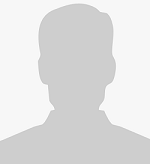
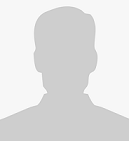
employee

diff --git a/TimeAttendanceSystem/Views/EmployeeView.xaml b/TimeAttendanceSystem/Views/EmployeeView.xaml
@@ -1,9 +1,11 @@
 <Page x:Class="TimeAttendanceSystem.Views.EmployeeView"
         xmlns="http://schemas.microsoft.com/winfx/2006/xaml/presentation"
         xmlns:x="http://schemas.microsoft.com/winfx/2006/xaml"
+        xmlns:toolkit="http://schemas.microsoft.com/wpf/2008/toolkit"
+        xmlns:d="http://schemas.microsoft.com/expression/blend/2008" xmlns:mc="http://schemas.openxmlformats.org/markup-compatibility/2006" xmlns:telerik="http://schemas.telerik.com/2008/xaml/presentation" 
         xmlns:local="clr-namespace:TimeAttendanceSystem.Views"
-      
-        Title="EmployeeView" Height="631.585" Width="738.125">
+        xmlns:validations="clr-namespace:TimeAttendanceSystem.Validation"
+        Title="EmployeeView" Height="631.585" Width="1000">
     <Page.Resources>
         <ControlTemplate x:Key="validationErrorTemplate">
             <DockPanel>
@@ -15,12 +17,125 @@
             </DockPanel>
         </ControlTemplate>
     </Page.Resources>
-    <Grid Margin="0,-24,0.4,-60.8">
-        
+    <Border BorderBrush="#FF25A0DA" BorderThickness="1" Margin="0,0,-152,0">
+        <StackPanel Background="White">
+            <!--Header-->
+            <StackPanel Background="#FF25A0DA" Height="35px">
+                <Label Foreground="White" FontSize="17">Employees</Label>
+            </StackPanel>
+
+            <StackPanel Orientation="Horizontal" Height="589">
+                <!--List View Panel-->
+                <StackPanel Margin="5,5,5,5">
+                    <telerik:RadGridView x:Name="radGridView" AutoGenerateColumns="False" 
+                        telerik:StyleManager.Theme="Windows8" HorizontalAlignment="Left" 
+                        ItemsSource="{Binding listOfDivs}" SelectedItem="{Binding selectedDiv}" 
+                        VerticalAlignment="Top" Grid.RowSpan="2" 
+                        CanUserFreezeColumns="False" MinWidth="387">
+                        <telerik:RadGridView.Columns>
+                            <telerik:GridViewDataColumn Header="DivisionName" DataMemberBinding="{Binding DivisionName}" />
+                        </telerik:RadGridView.Columns>
+                    </telerik:RadGridView>
+
+                </StackPanel>
+                <Border BorderBrush="LightGray" BorderThickness="1" Margin="5,5,5,5" Width="400">
+                    <StackPanel Margin="5,0,5,3" Background="White">
+                        <!--Buttons Panel-->
+                        <StackPanel Orientation="Horizontal" Margin="300,5,5,5">
+                            <Button telerik:StyleManager.Theme="Windows8" Width="18" BorderThickness="0" Command="{Binding AddCommand}" CommandParameter="{Binding}" ToolTip="Add">
+                                <Image  Stretch="Uniform" Source="/TimeAttendanceSystem;component/Images/add.png">
+                                </Image>
+                            </Button>
+                            <Button telerik:StyleManager.Theme="Windows8" Margin="10,0,0,0" Width="18" BorderBrush="#FFFFFBFB" BorderThickness="0" Command="{Binding EditCommand}" CommandParameter="{Binding}" ToolTip="Edit" >
+                                <Image  Stretch="Uniform" Source="/TimeAttendanceSystem;component/Images/edit-document.png">
+                                </Image>
+                            </Button>
+                            <Button  Width="18" telerik:StyleManager.Theme="Windows8" Margin="10,0,0,0" BorderBrush="#FFF9F9F9" BorderThickness="0" Command="{Binding DeleteCommand}" CommandParameter="{Binding}" ToolTip="Delete">
+                                <Image  Stretch="Uniform" Source="/TimeAttendanceSystem;component/Images/delete.png">
+                                </Image>
+                            </Button>
+                        </StackPanel>
+                        <!--Data Input Panel-->
+                        <StackPanel Margin="5,5,5,5">
+                            <StackPanel>
+                                <Grid Height="140">
+                                    <Button telerik:StyleManager.Theme="Windows8" Margin="10,10,268,22">
+                                        <Image  Stretch="Uniform" Source="/TimeAttendanceSystem;component/Images/Blank-Person1.png">
+                                        </Image>
+                                    </Button>
+                                    <Label HorizontalAlignment="Left" Content="Emp No:" VerticalAlignment="Top" Width="59" Margin="115,26,0,0"></Label>
+                                    <TextBox Validation.ErrorTemplate="{StaticResource validationErrorTemplate}" HorizontalAlignment="Left" TextWrapping="Wrap" VerticalAlignment="Top" Width="126" Margin="179,30,0,0">
+                                        <TextBox.Text>
+                                            <Binding Path="selectedEmp.EmpName" Mode="TwoWay" 
+        UpdateSourceTrigger="LostFocus">
+                                                <Binding.ValidationRules>
+                                                    <local:NameValidator></local:NameValidator>
+                                                </Binding.ValidationRules>
+                                            </Binding>
+                                        </TextBox.Text>
+                                    </TextBox>
+                                    <Label HorizontalAlignment="Left" Content="Name:" VerticalAlignment="Top" Height="22" Width="48" FontFamily="Trebuchet MS" Margin="126,57,0,0"/>
+                                    <Label Content="Status:" HorizontalAlignment="Left" VerticalAlignment="Top" Margin="129,85,0,0"/>
+                                    <ComboBox HorizontalAlignment="Left" VerticalAlignment="Top" Width="126" Margin="179,85,0,0" >
+                                        <ComboBoxItem Name="cbi1">True</ComboBoxItem>
+                                        <ComboBoxItem Name="cbi2">False</ComboBoxItem>
+                                    </ComboBox>
+                                    <TextBox Validation.ErrorTemplate="{StaticResource validationErrorTemplate}" HorizontalAlignment="Left" VerticalAlignment="Top" Width="164" Margin="179,57,0,0">
+                                        <TextBox.Text>
+                                            <Binding Path="selectedEmp.EmpName" Mode="TwoWay" 
+        UpdateSourceTrigger="LostFocus">
+                                                <Binding.ValidationRules>
+                                                    <local:NameValidator></local:NameValidator>
+                                                </Binding.ValidationRules>
+                                            </Binding>
+                                        </TextBox.Text>
+                                    </TextBox>
+                                </Grid>
+                            </StackPanel>
+                            <StackPanel>
+                                <TabControl Height="402">
+                                    <TabItem Header="Job">
+                                        <Grid Height="316">
+                                            <Label Content="Employee Type:" HorizontalAlignment="Left" Margin="51,5,0,0" VerticalAlignment="Top" FontSize="12" Width="110"/>
+                                            <Label Content="Designation:" HorizontalAlignment="Left" Margin="68,33,0,0" VerticalAlignment="Top" FontSize="12" Width="90"/>
+                                            <Label Content="Grade:" HorizontalAlignment="Left" Margin="100,60,0,0" VerticalAlignment="Top" FontSize="12" Width="52"/>
+                                            <Label Content="Shift:" HorizontalAlignment="Left" Margin="108,87,0,0" VerticalAlignment="Top" FontSize="12" Width="43"/>
+                                            <Label Content="Department:" HorizontalAlignment="Left" Margin="69,115,0,0" VerticalAlignment="Top" FontSize="12" Width="90"/>
+                                            <Label Content="Section:" HorizontalAlignment="Left" Margin="95,142,0,0" VerticalAlignment="Top" FontSize="12" Width="63"/>
+                                            <Label Content="Location:" HorizontalAlignment="Left" Margin="89,168,0,0" VerticalAlignment="Top" FontSize="12" Width="68"/>
+                                            <Label HorizontalAlignment="Left" Margin="157,473,0,0" VerticalAlignment="Top"/>
+                                            <Label Content="Crew:" HorizontalAlignment="Left" Margin="108,193,0,0" VerticalAlignment="Top" RenderTransformOrigin="0.495,-0.839"/>
+                                            <ComboBox HorizontalAlignment="Left" Margin="152,8,0,0" VerticalAlignment="Top" Width="152" FontSize="12" DisplayMemberPath="TypeName" SelectedValuePath="TypeID" ItemsSource="{Binding listOfEmpTypes,Mode=TwoWay}"/>
+                                            <ComboBox HorizontalAlignment="Left" Margin="152,35,0,0" VerticalAlignment="Top" Width="152" FontSize="12" DisplayMemberPath="DesignationName" SelectedValuePath="DesignationID" ItemsSource="{Binding listOfDesgs}"/>
+                                            <ComboBox HorizontalAlignment="Left" Margin="152,62,0,0" VerticalAlignment="Top" Width="152" FontSize="12" DisplayMemberPath="GradeName" SelectedValuePath="GradeID" ItemsSource="{Binding listOfDesgs}"/>
+                                            <ComboBox HorizontalAlignment="Left" Margin="152,89,0,0" VerticalAlignment="Top" Width="152" FontSize="12" DisplayMemberPath="ShiftName" SelectedValuePath="ShiftID" ItemsSource="{Binding listOfShifts}"/>
+                                            <ComboBox HorizontalAlignment="Left" Margin="152,116,0,0" VerticalAlignment="Top" Width="152" FontSize="12" DisplayMemberPath="DeptName" SelectedValuePath="DeptID" ItemsSource="{Binding listOfDepts}" SelectedItem="{Binding selectedDept,Mode=TwoWay}"/>
+                                            <ComboBox HorizontalAlignment="Left" Margin="152,143,0,0" VerticalAlignment="Top" Width="152" FontSize="12" DisplayMemberPath="SectionName" SelectedValuePath="SectionID" ItemsSource="{Binding listOfSecs, Mode=TwoWay}"/>
+                                            <ComboBox HorizontalAlignment="Left" Margin="152,170,0,0" VerticalAlignment="Top" Width="152" FontSize="12" DisplayMemberPath="LocName" SelectedValuePath="LocID" ItemsSource="{Binding listOfLocs}"/>
+                                            <ComboBox HorizontalAlignment="Left" Margin="152,197,0,0" VerticalAlignment="Top" Width="152" DisplayMemberPath="CrewName" SelectedValuePath="CrewID" ItemsSource="{Binding listOfCrews}"/>
+                                        </Grid>
+                                    </TabItem>
+                                    <TabItem Header="Personal" >
+                                        <Label Content="Content goes here..." />
+                                    </TabItem>
+                                    <TabItem Header="Leaves" >
+                                        <Label Content="Content goes here..." />
+                                    </TabItem>
+                                </TabControl>
+                            </StackPanel>
+
+                        </StackPanel>
+                    </StackPanel>
+                </Border>
+            </StackPanel>
+        </StackPanel>
+    </Border>
+    <!--<Grid Margin="0,-24,-241,-575">
+
         <Grid.ColumnDefinitions>
             <ColumnDefinition/>
         </Grid.ColumnDefinitions>
-        <ToolBar  HorizontalAlignment="Left" VerticalAlignment="Top" Height="42" Width="516" Margin="19,32,0,0" >
+        <ToolBar  HorizontalAlignment="Left" VerticalAlignment="Top" Height="42" Width="516" Margin="41,398,0,0" >
             <Button Command="{Binding AddCommand}" CommandParameter="{Binding}" Margin="6"
 				Content="Add" />
             <Button Content="Edit"  Command="{Binding EditCommand}" CommandParameter="{Binding}" Margin="6"/>
@@ -28,8 +143,8 @@
             <Button Content="Search.." CommandParameter="ZoomNormal" Margin="6"/>
             <Button Content="Save" Height="37" VerticalAlignment="Top" Width="75" Margin="0,0,0,-0.2"  Command="{Binding SaveCommand}" CommandParameter="{Binding}"/>
         </ToolBar>
-        <TextBlock HorizontalAlignment="Left" Margin="78,108,0,0" TextWrapping="Wrap" Text="Employee No:" VerticalAlignment="Top" Height="17" Width="79" FontFamily="Trebuchet MS"/>
-        <TextBox Validation.ErrorTemplate="{StaticResource validationErrorTemplate}" HorizontalAlignment="Left" Height="20" Margin="171,105,0,0" TextWrapping="Wrap" VerticalAlignment="Top" Width="126">
+        <TextBlock HorizontalAlignment="Left" Margin="100,474,0,0" TextWrapping="Wrap" Text="Employee No:" VerticalAlignment="Top" Height="17" Width="79" FontFamily="Trebuchet MS"/>
+        <TextBox Validation.ErrorTemplate="{StaticResource validationErrorTemplate}" HorizontalAlignment="Left" Height="20" Margin="193,471,0,0" TextWrapping="Wrap" VerticalAlignment="Top" Width="126">
             <TextBox.Text>
                 <Binding Path="selectedEmp.EmpName" Mode="TwoWay" 
         UpdateSourceTrigger="LostFocus">
@@ -39,11 +154,11 @@
                 </Binding>
             </TextBox.Text>
         </TextBox>
-        <TextBox HorizontalAlignment="Left" Height="20" Margin="171,139,0,0" TextWrapping="Wrap" Text="&#xA;" VerticalAlignment="Top" Width="126"/>
-        <TextBlock HorizontalAlignment="Left" Margin="56,171,0,0" TextWrapping="Wrap" VerticalAlignment="Top" Width="101" Height="16" Text="Select EMP Photo:" FontFamily="Trebuchet MS"/>
-        <Button Content="Choose Photo&#xA;" HorizontalAlignment="Left" Margin="171,166,0,0" VerticalAlignment="Top" Width="98" Height="21" RenderTransformOrigin="0.181,0.604"/>
-        <TextBlock HorizontalAlignment="Left" Margin="66,139,0,0" TextWrapping="Wrap" VerticalAlignment="Top" FontFamily="Trebuchet MS" Height="18"><Run Text="Employee Name:"/><LineBreak/><Run/></TextBlock>
-        <TabControl HorizontalAlignment="Left" Height="524" Margin="0,191,-63,-136" VerticalAlignment="Top" Width="793">
+        <TextBox HorizontalAlignment="Left" Height="20" Margin="193,505,0,0" TextWrapping="Wrap" Text="&#xA;" VerticalAlignment="Top" Width="126"/>
+        <TextBlock HorizontalAlignment="Left" Margin="78,537,0,0" TextWrapping="Wrap" VerticalAlignment="Top" Width="101" Height="16" Text="Select EMP Photo:" FontFamily="Trebuchet MS"/>
+        <Button Content="Choose Photo&#xA;" HorizontalAlignment="Left" Margin="193,532,0,0" VerticalAlignment="Top" Width="98" Height="21" RenderTransformOrigin="0.181,0.604"/>
+        <TextBlock HorizontalAlignment="Left" Margin="88,505,0,0" TextWrapping="Wrap" VerticalAlignment="Top" FontFamily="Trebuchet MS" Height="18"><Run Text="Employee Name:"/><LineBreak/><Run/></TextBlock>
+        <TabControl HorizontalAlignment="Left" Height="524" Margin="22,557,0,0" VerticalAlignment="Top" Width="793">
             <TabItem Header="Job" Margin="0,0,-14,-2">
                 <Grid Background="#FFE5E5E5" Margin="0,5,6,-8">
                     <Label Content="Category:" HorizontalAlignment="Left" Margin="35,21,0,0" VerticalAlignment="Top" FontSize="12" Width="71" Height="32"/>
@@ -186,5 +301,5 @@
                 </Grid>
             </TabItem>
         </TabControl>
-    </Grid>
+    </Grid>-->
 </Page>
